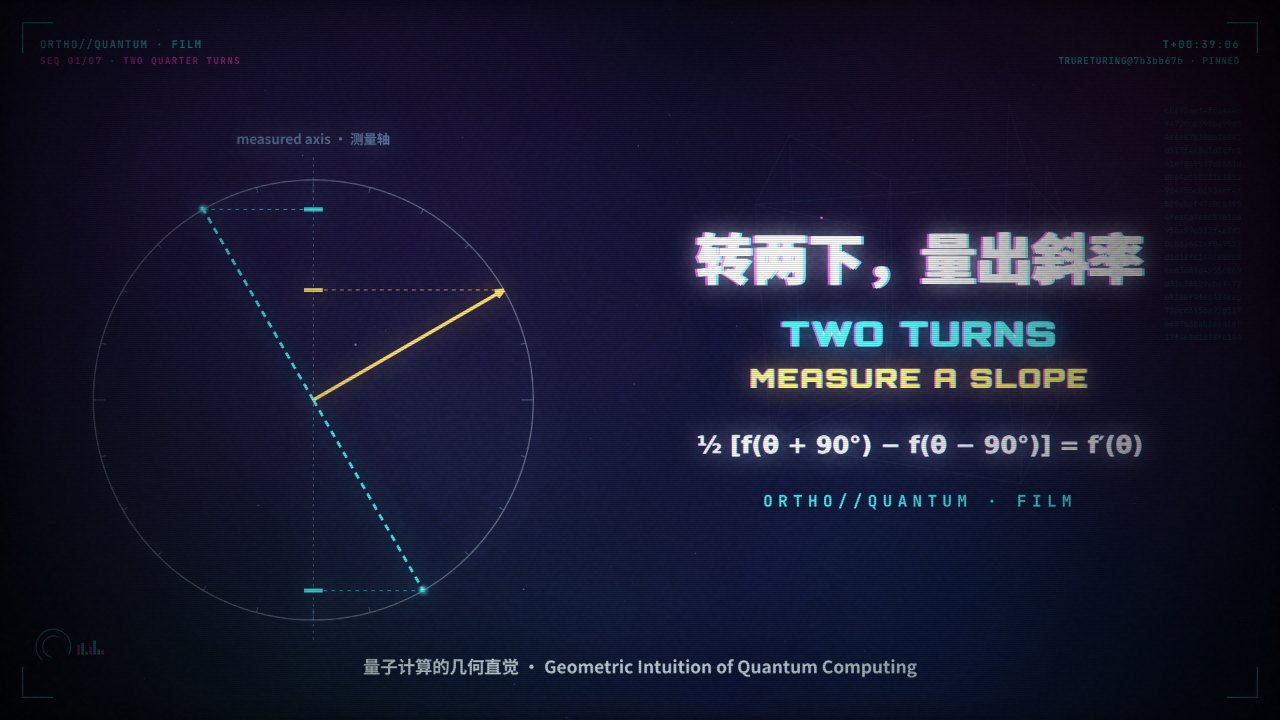
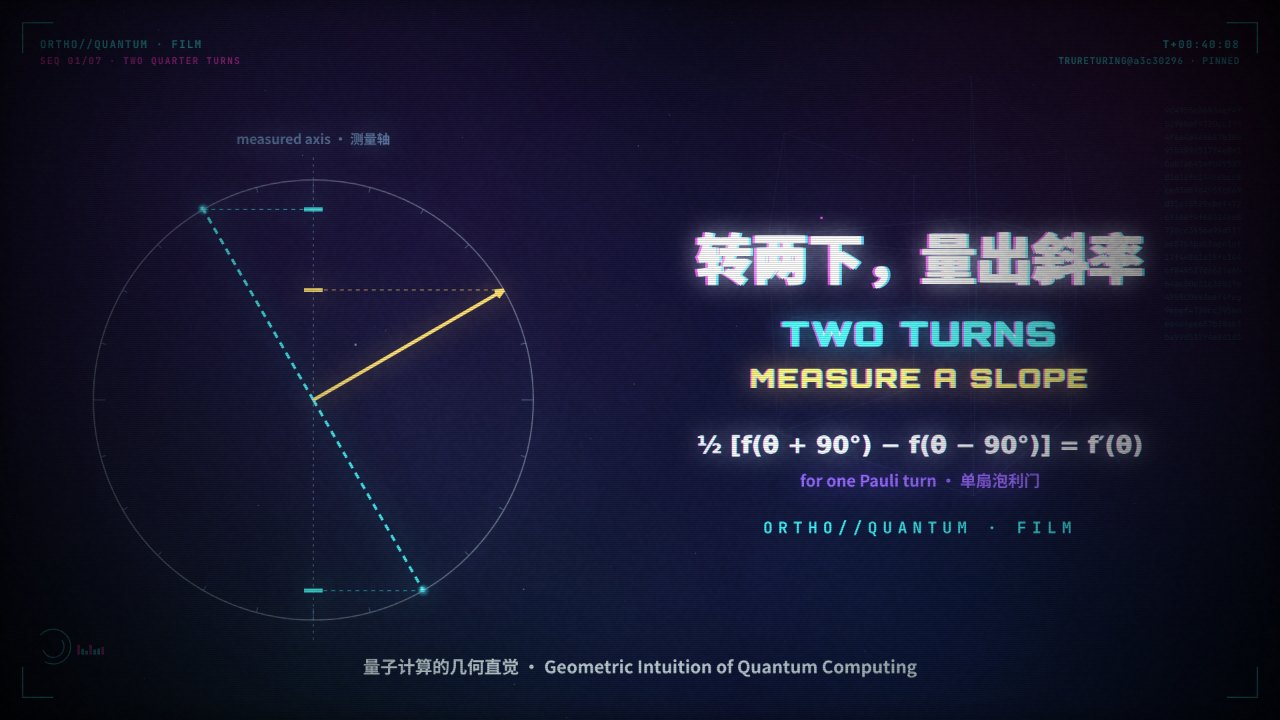
fix(films): 按复核修改 slope-from-two-turns
必须改：图注补上 t = π/3（箭头在 60°）的时刻；开场改为“重复测许多次，探测器的平均值只告诉你高度”（旁白、summary、图注同步）；lean 场景印章移出表盘、改写为 ρ_t 并缩短显示；p = 0.75 标签移到纬线右端外侧；nudge 标签移到弦的左上方。
建议改：差的一半“等于切线的斜率”；第 4 句前半顶部状态条改为 LEAN；补“往回转那一下减掉常数”；“同演化后的态求迹”；预算面板加“可和”；硬币改白色；去掉画面上重复的格言；坐标刻度下移；why 场景读数移出图框；海报公式加“单扇泡利门”；预算一场加动机句；修正注释。
重新构建实测 2:30（149.84 s），film.json 与中英图注同步；改过的场景重拍看过，海报重做；check 0 错误。

Claude-Session: https://claude.ai/code/session_01FJGySq7rVWTRF4aH8AY9ro

Changed region(s): [[0.5938, 0.6417, 0.8438, 0.7639]]

diff --git a/books/quantum-geometry/films/slope-from-two-turns/scenes.js b/books/quantum-geometry/films/slope-from-two-turns/scenes.js
@@ -197,7 +197,7 @@ function stPlot(B, a, o = {}) {
   line(B.x, Y(0), B.x + B.w, Y(0), C.dim, a * 0.6, 1.5);
   for (let d = Math.ceil(B.d0 / 90) * 90; d <= B.d1; d += 90) {
     line(X(d), Y(0) - 6, X(d), Y(0) + 6, C.dim, a * 0.8, 1.5);
-    txt(`${d}°`, X(d), Y(0) + 32, { size: 18, fam: F.mono, w: 700, align: 'center', c: C.dim, a });
+    txt(`${d}°`, X(d), Y(0) + 46, { size: 18, fam: F.mono, w: 700, align: 'center', c: C.dim, a });
   }
   for (const v of [1, -1]) { stDash(B.x, Y(v), B.x + B.w, Y(v), C.dim, a * 0.35, 1, [3, 8]); txt(v > 0 ? '1' : '−1', B.x - 12, Y(v) + 7, { size: 18, fam: F.mono, w: 700, align: 'right', c: C.dim, a }); }
   const span = o.upto == null ? 1 : o.upto;
@@ -236,12 +236,12 @@ SCENES.dial = S => {
   const a = clamp((u - lineAt(S, 0).s + 0.3) / 0.7) * clamp((S.d - u) / 0.5);
   if (a <= 0) return;
   badgeQ(S, [[0, null, 'computed']]);
-  /* the knob turns back and forth: θ = 60° + 40° sin */
+  /* the knob turns back and forth: θ = 70° + 30° sin */
   const deg = 70 + 30 * Math.sin((u - lineAt(S, 0).s) * 0.9);
   stDial(DL_O, DL_R, a);
   const arm = stArm(DL_O, DL_R, deg, C.now, a);
   txt(`θ = ${Math.round(deg)}°`, DL_O[0] + 40, DL_O[1] + 60, { size: 28, fam: F.mono, w: 700, c: C.now, a });
-  const ha = a * Q(S, 0, 'reports only its height', 0.6);
+  const ha = a * Q(S, 0, 'average gives only its height', 0.6);
   if (ha > 0.003) {
     chip(DL_O[0] - 150, arm.hy, 170, 44, stNum(stF(deg), 2), C.cyan, ha, 24);
     txt('detector · 探测器', DL_O[0] - 150, arm.hy + 66, { size: 22, fam: F.zh, w: 700, align: 'center', c: C.cyan, a: ha });
@@ -259,7 +259,7 @@ SCENES.dial = S => {
       const h = 8;
       const x1 = P.X(deg - h), y1 = P.Y(stF(deg - h)), x2 = P.X(deg + h), y2 = P.Y(stF(deg + h));
       line(x1, y1, x2, y2, C.mag, na, 4); dot(x1, y1, 9, 'm', na); dot(x2, y2, 9, 'm', na);
-      txt('nudge · 拧一点点', x2 + 18, y2 + 30, { size: 22, fam: F.zh, w: 700, c: C.mag, a: na });
+      txt('nudge · 拧一点点', x1 - 20, y1 - 24, { size: 22, fam: F.zh, w: 700, align: 'right', c: C.mag, a: na });
     }
   }
   const qa = a * Q(S, 2, 'But why', 0.6);
@@ -324,7 +324,7 @@ SCENES.turns = S => {
 /*                           scene 3 · WHY A QUARTER TURN                    */
 /* ======================================================================= */
 const WY_O = [440, 610], WY_R = 240;
-const WY_B = { x: 1000, y: 490, w: 820, h: 290, d0: -60, d1: 180 };
+const WY_B = { x: 1000, y: 490, w: 820, h: 250, d0: -60, d1: 180 };
 SCENES.why = S => {
   const u = S.u, a = stFade(S);
   if (a <= 0) return;
@@ -362,14 +362,13 @@ SCENES.why = S => {
     const x1 = P.X(30), y1 = P.Y(stF(30)), x2 = P.X(90), y2 = P.Y(stF(90)), k = (y2 - y1) / (x2 - x1);
     line(x1 - 90, y1 - 90 * k, x2 + 90, y2 + 90 * k, C.mag, ca, 3);
     dot(x1, y1, 10, 'm', ca); dot(x2, y2, 10, 'm', ca); dot(P.X(60), P.Y(stF(60)), 12, 'g', ca);
-    txt(`chord ±30° · 弦  ${stNum(stChord(60, 30))}`, 1010, 700, { size: 22, fam: F.zh, w: 700, c: C.mag, a: ca });
-    txt(`tangent · 切线  ${stNum(stTan(60))}`, 1010, 732, { size: 22, fam: F.zh, w: 700, c: C.white, a: ca });
-    txt(`ratio sin h / h = ${stNum(stChord(60, 30) / stTan(60))}`, 1010, 764, { size: 22, fam: F.mono, w: 700, c: C.mag, a: ca * Q(S, 2, 'four and a half percent', 0.5) });
+    txt(`chord ±30° · 弦  ${stNum(stChord(60, 30))}`, 1010, 800, { size: 22, fam: F.zh, w: 700, c: C.mag, a: ca });
+    txt(`tangent · 切线  ${stNum(stTan(60))}`, 1010, 832, { size: 22, fam: F.zh, w: 700, c: C.white, a: ca });
+    txt(`ratio sin h / h = ${stNum(stChord(60, 30) / stTan(60))}`, 1010, 864, { size: 22, fam: F.mono, w: 700, c: C.mag, a: ca * Q(S, 2, 'four and a half percent', 0.5) });
   }
   /* line 3: the aphorism */
   const sa = a * at(S, 3, 0.5);
   if (sa > 0.003) {
-    txt('The slope was never next door. It was a quarter turn away.', W / 2, 860, { size: 30, fam: F.disp, w: 700, align: 'center', c: C.white, a: sa });
   }
 };
 
@@ -380,7 +379,7 @@ const LN_O = [400, 560], LN_R = 230;
 SCENES.lean = S => {
   const u = S.u, a = stFade(S);
   if (a <= 0) return;
-  badgeQ(S, [[0, 'Lean checks', 'lean'], [3, null, 'computed'], [4, 'spin around', 'computed']]);
+  badgeQ(S, [[0, 'Lean checks', 'lean'], [3, null, 'computed'], [4, null, 'lean'], [4, 'spin around', 'computed']]);
   /* the general rule */
   panel(860, 190, 960, 330, a, C.lean, 'ANY FINITE SYSTEM · 任意有限维系统');
   stRich([['H* = H,  P* = P = P²,  ρ a density state', C.white]], 884, 260, { size: 26, a: a * Q(S, 1, 'Hermitian generator', 0.6) });
@@ -424,13 +423,13 @@ SCENES.lean = S => {
     const tip = [O[0] + rr * Math.sin(ph), ry + rr * tilt * Math.cos(ph)];
     arrow(O[0], O[1], tip[0], tip[1], C.now, ka, 5);
     stDash(O[0] - R - 30, ry, O[0] + R + 30, ry, C.cyan, ka * 0.5, 1.5);
-    txt('p = 0.75, always · 始终', O[0], ry - rr * tilt - 18, { size: 22, fam: F.zh, w: 700, align: 'center', c: C.cyan, a: ka });
+    txt('p = 0.75 · 始终', O[0] + R + 40, ry + 8, { size: 22, fam: F.zh, w: 700, c: C.cyan, a: ka });
     txt('H = Z/2,  HP − PH = 0', O[0], O[1] + R + 40, { size: 24, fam: F.math, w: 700, align: 'center', c: C.white, a: ka });
     panel(860, 560, 960, 230, ka, C.cyan, 'NOTHING MOVES · 一动不动');
     stRich([['p(t) = ', C.white], [stNum(stProb([0, 0, 1], [[[0.75, 0], [Math.sqrt(3) / 4, 0]], [[Math.sqrt(3) / 4, 0], [0.25, 0]]], ph), 2), C.cyan], ['   p′(t) = 0', C.white]], 884, 640, { size: 30, a: ka });
     txt('spin about the measured axis · 绕被测的轴转', 884, 700, { size: 22, fam: F.zh, w: 700, c: C.white, a: ka });
   }
-  stamp('p′ = Re i Tr(ρₜ[H, P])', 420, 700, Q(S, 0, 'Lean checks', 0.5, 0.8) * (1 - at(S, 1, 0.5, 2.5)), C.lean, 26, -0.06);
+  stamp('p′ = Re i Tr(ρ_t [H, P])', 1340, 640, Q(S, 0, 'Lean checks', 0.5, 0.8) * (1 - at(S, 1, 0.5, 1.5)), C.lean, 26, -0.06);
 };
 
 /* ======================================================================= */
@@ -439,20 +438,25 @@ SCENES.lean = S => {
 SCENES.budget = S => {
   const u = S.u, a = stFade(S);
   if (a <= 0) return;
-  badgeQ(S, [[0, null, 'argued'], [2, 'Lean checks', 'lean'], [4, 'Halves', 'computed']]);
+  badgeQ(S, [[1, null, 'argued'], [2, 'Lean checks', 'lean'], [4, 'Halves', 'computed']]);
+  const qa = a * at(S, 0, 0.6) * (1 - at(S, 2, 0.6));
+  if (qa > 0.003) {
+    txt('how many modes can be big at once?', 1000, 300, { size: 32, fam: F.disp, w: 700, c: C.white, a: qa });
+    txt('有多少个模式能同时很大？', 1000, 352, { size: 30, fam: F.zh, w: 700, c: C.white, a: qa });
+  }
   /* lines 0–1: the dollar, ten dimes */
   const da = a * (1 - at(S, 2, 0.6) * 0.75);
-  stTag('analogy · 比方', 120, 232, C.argued, da);
+  stTag('analogy · 比方', 120, 232, C.argued, da * at(S, 1, 0.6));
   const bx = 120, by = 270, bw = 700, bh = 60;
-  txt('one dollar · 一块钱', bx + bw, by - 14, { size: 22, fam: F.zh, w: 700, align: 'right', c: C.white, a: da * Q(S, 0, 'Split one dollar', 0.6) });
-  box(bx, by, bw, bh, C.white, da * 0.6, 1.5);
-  const nd = Math.floor(clamp(at(S, 1, 2.0)) * 10 + 1e-9);
+  txt('one dollar · 一块钱', bx + bw, by - 14, { size: 22, fam: F.zh, w: 700, align: 'right', c: C.white, a: da * Q(S, 1, 'Split one dollar', 0.6) });
+  box(bx, by, bw, bh, C.white, da * 0.6 * at(S, 1, 0.6), 1.5);
+  const nd = Math.floor(clamp(Q(S, 1, 'Each winner', 2.0)) * 10 + 1e-9);
   for (let k = 0; k < 10; k++) {
-    const sa = da * Q(S, 0, 'Split one dollar', 0.6) * (k < nd ? 1 : 0.25);
-    fillBox(bx + k * bw / 10 + 3, by + 3, bw / 10 - 6, bh - 6, k < nd ? C.now : C.dim, sa * 0.6);
+    const sa = da * Q(S, 1, 'Split one dollar', 0.6) * (k < nd ? 1 : 0.25);
+    fillBox(bx + k * bw / 10 + 3, by + 3, bw / 10 - 6, bh - 6, k < nd ? C.white : C.dim, sa * 0.6);
   }
-  txt(`${nd} × 0.10 ≤ 1.00`, bx, by + bh + 42, { size: 26, fam: F.mono, w: 700, c: C.now, a: da * at(S, 1, 0.5) });
-  txt('a dime or more each · 每人至少一角  ⇒  at most 10', bx, by + bh + 82, { size: 22, fam: F.zh, w: 700, c: C.white, a: da * at(S, 1, 0.5, 1.5) });
+  txt(`${nd} × 0.10 ≤ 1.00`, bx, by + bh + 42, { size: 26, fam: F.mono, w: 700, c: C.white, a: da * Q(S, 1, 'Each winner', 0.5) });
+  txt('a dime or more each · 每人至少一角  ⇒  at most 10', bx, by + bh + 82, { size: 22, fam: F.zh, w: 700, c: C.white, a: da * Q(S, 1, 'at most ten win', 0.5) });
   /* lines 2–3: the geometric spectrum λ_j = 2^−(j+1) and a threshold sliding down to 1/8 */
   const ga = a * at(S, 2, 0.6);
   if (ga > 0.003) {
@@ -480,7 +484,7 @@ SCENES.budget = S => {
   const la = a * Q(S, 2, 'Lean checks', 0.6);
   if (la > 0.003) {
     panel(1000, 190, 820, 330, la, C.lean, 'ANY NONNEGATIVE LIST · 任意非负数列');
-    stRich([['λⱼ ≥ 0,  Σ λⱼ = RW/π,  τ > 0', C.white]], 1024, 262, { size: 28, a: la });
+    stRich([['λⱼ ≥ 0,  summable · 可和,  Σ λⱼ = RW/π,  τ > 0', C.white]], 1024, 262, { size: 26, a: la, fam: F.zh });
     stRich([['{ j : λⱼ ≥ τ } is finite', C.cyan]], 1024, 320, { size: 28, a: la * Q(S, 3, 'finitely many', 0.5) });
     stRich([['#{ j : λⱼ ≥ τ } ≤ RW/(πτ)', C.mag]], 1024, 378, { size: 28, a: la * Q(S, 3, 'the total over the threshold', 0.5) });
     stLeanChip(1024, 450, ST_LEAN.finite_rank_concentration_mode_bound, la, { size: 16 });
@@ -538,8 +542,9 @@ FILM.poster = () => {
   txt('TWO TURNS', 1380, 520, { size: 52, fam: F.orb, w: 900, align: 'center', c: C.cyan, ab: 3, ls: 5 });
   txt('MEASURE A SLOPE', 1380, 582, { size: 40, fam: F.orb, w: 900, align: 'center', c: C.now, ab: 2, ls: 4 });
   stRich([['½ [f(θ + 90°) − f(θ − 90°)] = f′(θ)', C.white]], 1380, 680, { size: 36, align: 'center', ab: 1 });
+  txt('for one Pauli turn · 单扇泡利门', 1380, 730, { size: 24, fam: F.zh, w: 700, align: 'center', c: C.argued });
   bloom(0.6);
-  txt(`${DATA.book.code} · FILM`, 1380, 760, { size: 24, fam: F.mono, w: 700, align: 'center', c: C.cyan, ls: 8 });
+  txt(`${DATA.book.code} · FILM`, 1380, 800, { size: 24, fam: F.mono, w: 700, align: 'center', c: C.cyan, ls: 8 });
   txt(`${DATA.book.title.zh} · ${DATA.book.title.en}`, W / 2, 1010, { size: 26, fam: F.zh, w: 700, align: 'center', c: C.white, a: 0.9 });
   hud(t, Math.round(t * 30), 0, sc);
   post(0);

diff --git a/books/quantum-geometry/en/ch12-measurement-computation-and-gradients.md b/books/quantum-geometry/en/ch12-measurement-computation-and-gradients.md
@@ -241,7 +241,7 @@ Note that [@cor-finite-trace-mode-budget] does not separately assume $R > 0$ or 
 The short film below strings the chapter's two frozen results together: a quarter turn each way measures the slope, the commutator rate of a projection probability stands behind that slope, and a finite trace budget caps the number of modes above a threshold.
 
 ::: {.film src="slope-from-two-turns"}
-**Two turns measure a slope (2 min 24 s).** The amber arrow rests at $\theta = 60^\circ$ with height $f = \cos\theta = 0.5$; two dashed cyan arrows turn $90^\circ$ back and $90^\circ$ forward and read $0.866$ and $-0.866$, and half their difference, $-0.866$, is exactly the slope of the dashed white tangent, wherever the arrow goes; the magenta $\pm 30^\circ$ chord is $4.5\%$ too shallow. The shadow on the wall and the dashed violet arrow a quarter turn ahead are an analogy; the two-point rule for one involutory Pauli rotation is a literature result ([@rem-parameter-shift-rule-literature]). The general rule behind the tangent is [@prop-measurement-gradient-flow]: on the dial with $H = Y/2$ and $P = \rho = \lvert 0\rangle\langle 0\rvert$ the probability changes at $-\sqrt{3}/4 \approx -0.433$, twice of which is the slope of the height; with the generator $Z/2$, which commutes with the projector, the amber arrow spins about the violet measured axis and the probability stays at $0.75$. Splitting a dollar so that at most ten people get a dime is an analogy; for the geometric spectrum $\lambda_j = 2^{-(j+1)}$, as the amber threshold drops to $\tau = \frac{1}{8}$, three cyan bars clear the line and the magenta wall stands at $8$ ([@cor-finite-trace-mode-budget]). Barren plateaus of random circuits are literature results, and the mode count cannot stop a slope from vanishing; every number in the film is computed on screen.
+**Two turns measure a slope (2 min 30 s).** The amber arrow rests at $\theta = 60^\circ$ with height $f = \cos\theta = 0.5$, the average of many runs; two dashed cyan arrows turn $90^\circ$ back and $90^\circ$ forward and read $0.866$ and $-0.866$, and half their difference, $-0.866$, is exactly the slope of the dashed white tangent, and wherever the arrow goes half the difference still equals the tangent's slope; the magenta $\pm 30^\circ$ chord is $4.5\%$ too shallow. The shadow on the wall and the dashed violet arrow a quarter turn ahead are an analogy; the two-point rule for one involutory Pauli rotation is a literature result ([@rem-parameter-shift-rule-literature]). The general rule behind the tangent is [@prop-measurement-gradient-flow]: on the dial with $H = Y/2$ and $P = \rho = \lvert 0\rangle\langle 0\rvert$ the probability changes at $t = \pi/3$ (the arrow at $60^\circ$) at the rate $-\sqrt{3}/4 \approx -0.433$, twice of which is the slope of the height; with the generator $Z/2$, which commutes with the projector, the amber arrow spins about the violet measured axis and the probability stays at $0.75$. Splitting a dollar so that at most ten people get a dime is an analogy; for the geometric spectrum $\lambda_j = 2^{-(j+1)}$, as the amber threshold drops to $\tau = \frac{1}{8}$, three cyan bars clear the line and the magenta wall stands at $8$ ([@cor-finite-trace-mode-budget]). Barren plateaus of random circuits are literature results, and the mode count cannot stop a slope from vanishing; every number in the film is computed on screen.
 :::
 
 ::: {.example #ex-cluster-shift-and-gradient title="One Teleportation, Two Shifts, and One Spherical Descent"}

diff --git a/books/quantum-geometry/zh/ch12-measurement-computation-and-gradients.md b/books/quantum-geometry/zh/ch12-measurement-computation-and-gradients.md
@@ -290,7 +290,7 @@ $$
 下面的短片把本章的两条冻结结论串在一起：先用左右各转 $90^\circ$ 量出斜率，再看斜率背后投影概率的对易子导数，最后看有限迹预算下的超阈值模式计数。
 
 ::: {.film src="slope-from-two-turns"}
-**转两下，量出斜率（2 分 24 秒）。** 琥珀色的箭头停在 $\theta = 60^\circ$，高度 $f = \cos\theta = 0.5$；两支青色的虚线箭头往回、往前各转 $90^\circ$，读出 $0.866$ 与 $-0.866$，两值之差的一半 $-0.866$ 正是白色虚线切线的斜率，箭头转到哪里都如此；$\pm 30^\circ$ 的品红弦则缓了 $4.5\%$。墙上的影子与前方四分之一圈的紫色虚线箭头是比方；一扇对合泡利门下的两点规则是文献结果（[@rem-parameter-shift-rule-literature]）。切线背后的一般规则是 [@prop-measurement-gradient-flow]：在 $H = Y/2$、$P = \rho = \lvert 0\rangle\langle 0\rvert$ 的表盘上，概率的变化率是 $-\sqrt{3}/4 \approx -0.433$，它的两倍就是高度的斜率；生成元换成与投影对易的 $Z/2$，琥珀色的箭头绕紫色的测量轴转，概率始终停在 $0.75$。一块钱分给许多人、最多十人拿到一角是比方；几何谱 $\lambda_j = 2^{-(j+1)}$ 下琥珀色阈值降到 $\tau = \frac{1}{8}$ 时，过线的青色柱子有三根，品红的墙在 $8$（[@cor-finite-trace-mode-budget]）。随机电路的贫瘠高原是文献结果，模式计数拦不住斜率消失；片中数字都是屏幕上的计算。
+**转两下，量出斜率（2 分 30 秒）。** 琥珀色的箭头停在 $\theta = 60^\circ$，高度 $f = \cos\theta = 0.5$ 是重复测许多次的平均值；两支青色的虚线箭头往回、往前各转 $90^\circ$，读出 $0.866$ 与 $-0.866$，两值之差的一半 $-0.866$ 正是白色虚线切线的斜率，箭头转到哪里，差的一半都等于切线的斜率；$\pm 30^\circ$ 的品红弦则缓了 $4.5\%$。墙上的影子与前方四分之一圈的紫色虚线箭头是比方；一扇对合泡利门下的两点规则是文献结果（[@rem-parameter-shift-rule-literature]）。切线背后的一般规则是 [@prop-measurement-gradient-flow]：在 $H = Y/2$、$P = \rho = \lvert 0\rangle\langle 0\rvert$ 的表盘上，$t = \pi/3$（箭头转到 $60^\circ$）时概率的变化率是 $-\sqrt{3}/4 \approx -0.433$，它的两倍就是高度的斜率；生成元换成与投影对易的 $Z/2$，琥珀色的箭头绕紫色的测量轴转，概率始终停在 $0.75$。一块钱分给许多人、最多十人拿到一角是比方；几何谱 $\lambda_j = 2^{-(j+1)}$ 下琥珀色阈值降到 $\tau = \frac{1}{8}$ 时，过线的青色柱子有三根，品红的墙在 $8$（[@cor-finite-trace-mode-budget]）。随机电路的贫瘠高原是文献结果，模式计数拦不住斜率消失；片中数字都是屏幕上的计算。
 :::
 
 现在，让我们在下面的五步综合手算实例中，把一次簇态传态、两次正交参数移位、一次球面黎曼下降、$20$ 比特赤道集中概率与有限迹谱计数逐一算透。
